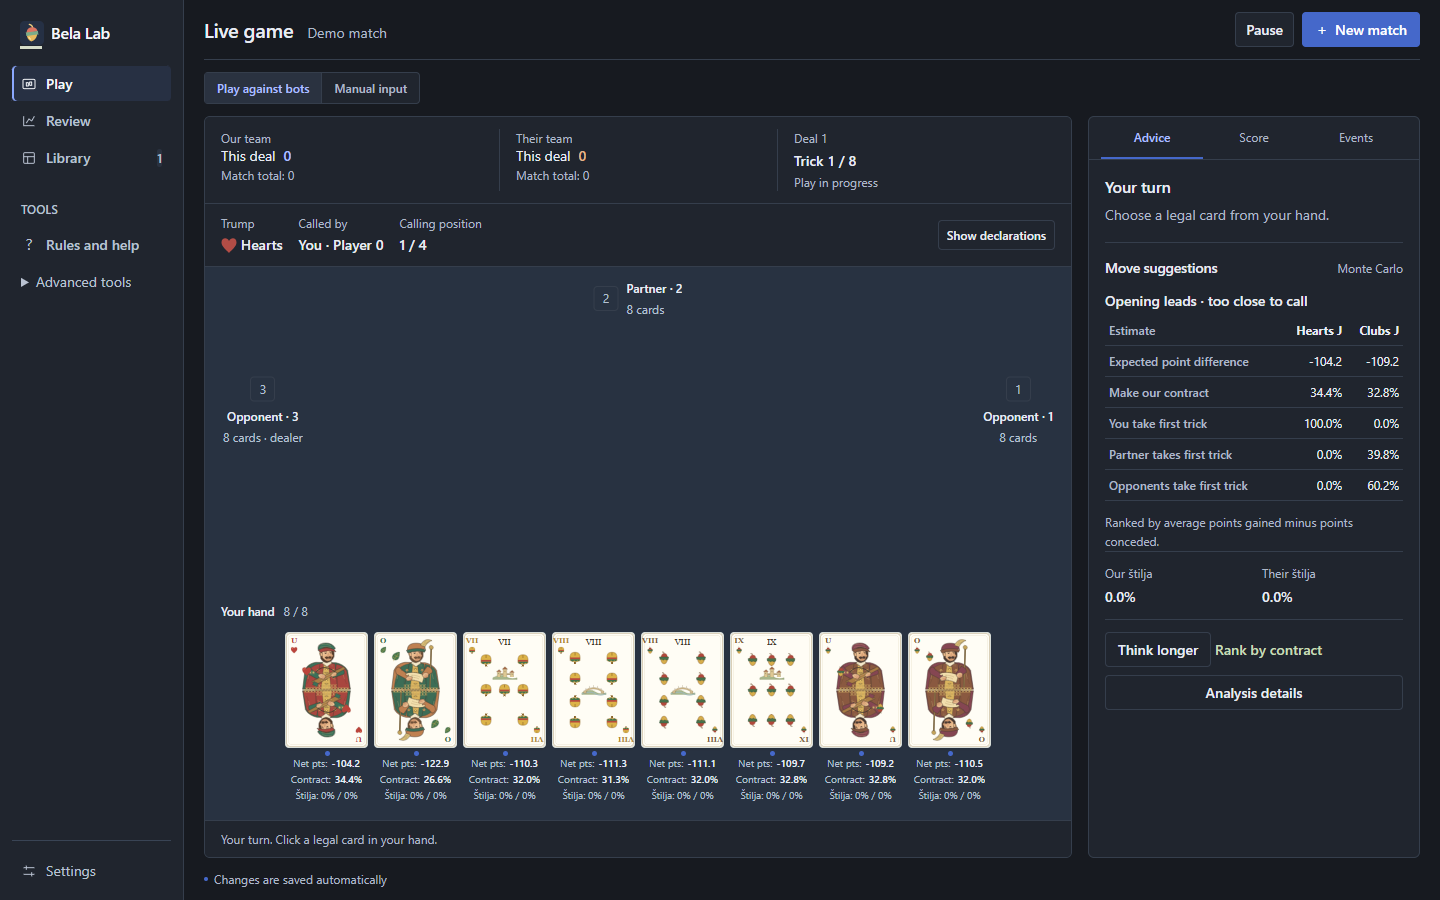
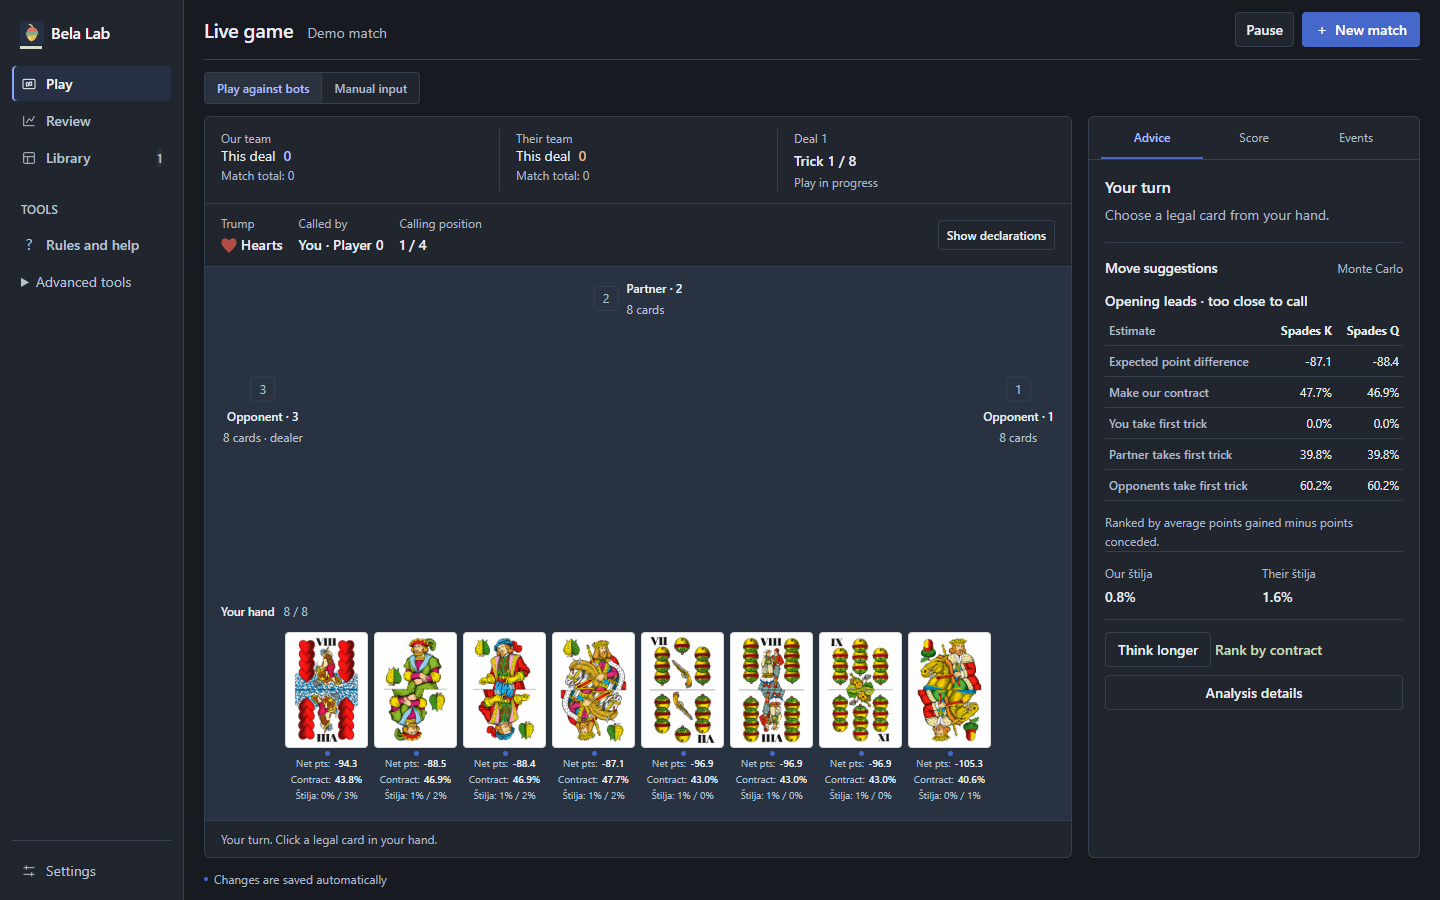
Prepare public Bela Lab release with traditional illustrated cards

Changed region(s): [[0.1875, 0.6844, 0.6875, 0.8711], [0.875, 0.3422, 0.9688, 0.56]]

diff --git a/app/src/bela/interfaces/web/index.html b/app/src/bela/interfaces/web/index.html
@@ -79,7 +79,7 @@
 
     <section id="view-history" class="view" hidden><div class="panel history-panel"><div class="panel-heading"><div><span class="section-kicker">VERIFIABLE HISTORY</span><h2>Every event has its place</h2><p>Corrections revalidate all subsequent moves. Previous versions remain in the archive.</p></div><button id="insert-first" class="button secondary">＋ Insert at start</button></div><div id="history-content"></div></div><section class="panel deal-history"><h2>Deals in this match</h2><div id="deal-history"></div></section></section>
     <section id="view-saved" class="view" hidden><div class="panel library-panel"><div class="panel-heading"><div><span class="section-kicker">PICK UP WHERE YOU LEFT OFF</span><h2>Match library</h2><p>Your matches are saved automatically on this computer.</p></div><button id="import" class="button secondary">Import file ↑</button></div><div id="library-content"></div></div></section>
-    <section id="view-help" class="view" hidden><div class="help-grid"><section class="panel help-copy"><span class="section-kicker">MANUAL TRACKING</span><h2>Record a game.</h2><ol><li><strong>Set up the deal.</strong> Enter your starting hand, trump, dealer, caller and score.</li><li><strong>Record declarations.</strong> Enter spoken details and revealed cards, then confirm who won the meld contest.</li><li><strong>Track every move.</strong> Select the card played at the table. On your turn, you can also select a card from your hand.</li><li><strong>Correct and continue.</strong> History supports replacement, insertion and deletion. Every valid change is saved automatically.</li></ol><button id="open-rules" class="button primary">Read the agreed rules ↗</button></section><section class="panel help-copy"><span class="section-kicker">ABOUT THE ENGINE</span><h2>Analysis settings.</h2><p>Use the current card search and position-aware trump assessment. Other approaches are under Experimental settings.</p><button id="open-project-status" class="button secondary" type="button">Project status (English)</button><details class="card-art-credit"><summary>Card artwork</summary><p>Hungarian card faces use the traditional hearts, leaves, bells and acorns suits.</p></details><h3>Information used for advice.</h3><p>Other players' unrevealed hands remain unknown. The engine checks whether a legal deal can explain the recorded history.</p><p>Complex validation may reach its computation limit. The change then remains unconfirmed and the previous state is preserved.</p><p>Move and trump advice estimate deal outcomes under explicit policies.</p><div class="help-team"><strong>Team 0</strong> players 0 + 2 <span>·</span> <strong>Team 1</strong> players 1 + 3</div></section><section class="panel help-copy"><h2>About Bela Lab</h2><p id="version-label"></p><p>The release documents are available in English.</p><p><button class="button secondary" type="button" data-legal="terms">Terms of Use</button> <button class="button secondary" type="button" data-legal="privacy">Privacy Policy</button> <button class="button secondary" type="button" data-legal="notices">Third-party notices</button></p><p><a href="https://github.com/AleksejLeonG/Belote_engine/issues" target="_blank" rel="noopener noreferrer">Project support on GitHub</a></p></section></div></section>
+    <section id="view-help" class="view" hidden><div class="help-grid"><section class="panel help-copy"><span class="section-kicker">MANUAL TRACKING</span><h2>Record a game.</h2><ol><li><strong>Set up the deal.</strong> Enter your starting hand, trump, dealer, caller and score.</li><li><strong>Record declarations.</strong> Enter spoken details and revealed cards, then confirm who won the meld contest.</li><li><strong>Track every move.</strong> Select the card played at the table. On your turn, you can also select a card from your hand.</li><li><strong>Correct and continue.</strong> History supports replacement, insertion and deletion. Every valid change is saved automatically.</li></ol><button id="open-rules" class="button primary">Read the agreed rules ↗</button></section><section class="panel help-copy"><span class="section-kicker">ABOUT THE ENGINE</span><h2>Analysis settings.</h2><p>Use the current card search and position-aware trump assessment. Other approaches are under Experimental settings.</p><button id="open-project-status" class="button secondary" type="button">Project status (English)</button><details class="card-art-credit"><summary>Card artwork</summary><p>Hungarian card faces use the traditional hearts, leaves, bells and acorns suits.</p></details><h3>Information used for advice.</h3><p>Other players' unrevealed hands remain unknown. The engine checks whether a legal deal can explain the recorded history.</p><p>Complex validation may reach its computation limit. The change then remains unconfirmed and the previous state is preserved.</p><p>Move and trump advice estimate deal outcomes under explicit policies.</p><div class="help-team"><strong>Team 0</strong> players 0 + 2 <span>·</span> <strong>Team 1</strong> players 1 + 3</div></section><section class="panel help-copy"><h2>About Bela Lab</h2><p id="version-label"></p><p>The release documents are available in English.</p><p><button class="button secondary" type="button" data-legal="terms">Terms of Use</button> <button class="button secondary" type="button" data-legal="privacy">Privacy Policy</button> <button class="button secondary" type="button" data-legal="notices">Third-party notices</button></p><p><a href="https://github.com/AleksejLeonG/Bela-Lab/issues" target="_blank" rel="noopener noreferrer">Project support on GitHub</a></p></section></div></section>
     <section id="view-trump" class="view" hidden aria-label="Trump advice">
       <section id="predeal-panel" class="panel advice-controls" hidden>
         <span class="section-kicker">STEP 2 OF 3 · TRUMP DECISION</span><h2 id="predeal-name"></h2>

diff --git a/app/src/bela/interfaces/web/app.js b/app/src/bela/interfaces/web/app.js
@@ -68,7 +68,10 @@ async function sendCommand(command, message) { return mutate("/api/command", {co
 function action(fn) { return async event => { try { await fn(event); } catch (error) { showError(error.message); } }; }
 
 function cardMarkup(code, {selected=false, legal=false, disabled=false, table=false} = {}) {
-  return l`<button class="playing-card ${red(code)?"red":""} ${selected?"selected":""} ${legal?"legal":""} ${table?"on-table":""}" data-card="${code}" aria-label="${suitNames()[code[0]]} ${deckRank(code.split("_")[1])}" ${disabled?"disabled":""}><img class="hungarian-face" src="/cards/hungarian/${code}.svg" alt="" aria-hidden="true" draggable="false"><span class="card-rank">${code.split("_")[1]}</span><span class="card-center">${SYMBOLS[code[0]]}</span><span class="card-bottom">${SYMBOLS[code[0]]}</span></button>`;
+  const face = state.illustrated_deck
+    ? `/cards/hungarian-illustrated/${code}.webp`
+    : `/cards/hungarian/${code}.svg`;
+  return l`<button class="playing-card ${red(code)?"red":""} ${selected?"selected":""} ${legal?"legal":""} ${table?"on-table":""}" data-card="${code}" aria-label="${suitNames()[code[0]]} ${deckRank(code.split("_")[1])}" ${disabled?"disabled":""}><img class="hungarian-face" src="${face}" alt="" aria-hidden="true" draggable="false"><span class="card-rank">${code.split("_")[1]}</span><span class="card-center">${SYMBOLS[code[0]]}</span><span class="card-bottom">${SYMBOLS[code[0]]}</span></button>`;
 }
 function picker(target, selected, onPick, disabled = () => false) {
   target.innerHTML = SUITS.map(suit => l`<div class="suit-row"><span class="suit-label ${red(suit)?"red":""}" aria-label="${suitNames()[suit]}">${suitMarkup(suit)}</span>${RANKS.map(rank => {
@@ -402,7 +405,7 @@ $("open-project-status").addEventListener("click",action(async()=>{
   $("status-content").textContent=result.text;$("status-dialog").showModal();
 }));
 function setLegalCopy(target, text){
-  const docsBase="https://github.com/AleksejLeonG/Belote_engine/blob/main/";
+  const docsBase="https://github.com/AleksejLeonG/Bela-Lab/blob/main/";
   const fragment=document.createDocumentFragment();
   let list=null;
   for(const line of text.split(/\r?\n/)){

diff --git a/app/src/bela/interfaces/dashboard.py b/app/src/bela/interfaces/dashboard.py
@@ -36,6 +36,8 @@ LEGAL_DOCUMENTS = {"terms": "TERMS.md", "privacy": "PRIVACY.md", "notices": "NOT
 MAX_REQUEST_BYTES = 16 * 1024 * 1024
 CARD_ASSETS = {f"/cards/{suit}.svg" for suit in ("hearts", "leaves", "bells", "acorns")} | {
     f"/cards/hungarian/{suit}_{rank}.svg" for suit in "HSDC"
+    for rank in ("7", "8", "9", "10", "J", "Q", "K", "A")} | {
+    f"/cards/hungarian-illustrated/{suit}_{rank}.webp" for suit in "HSDC"
     for rank in ("7", "8", "9", "10", "J", "Q", "K", "A")}
 
 
@@ -229,7 +231,7 @@ class Dashboard:
     def snapshot(self):
         with self.lock:
             return {"match": match_view(self.match), "saved": self.saved(), "mode":self.mode,
-                "version": __version__, "illustrated_deck": False,
+                "version": __version__, "illustrated_deck": (WEB_ROOT / "cards/hungarian-illustrated").is_dir(),
                 "bot":self.bot_game.public_view() if self.mode == "bots" and self.bot_game else None}
 
     def mutate(self, route, payload):

diff --git a/app/tools/package_windows_release.py b/app/tools/package_windows_release.py
@@ -42,8 +42,9 @@ def bundled_files():
 
     internal = BUNDLE / "_internal"
     deck = internal / "bela/interfaces/web/cards"
-    if len(list((deck / "hungarian").glob("*.svg"))) != 32:
-        raise ValueError("The release bundle must contain only the project SVG card faces.")
+    for folder, extension in (("hungarian", "svg"), ("hungarian-illustrated", "webp")):
+        if len(list((deck / folder).glob(f"*.{extension}"))) != 32:
+            raise ValueError(f"The release bundle must contain 32 {extension.upper()} card faces.")
     private_names = {"saves", "webview2.nupkg", "early_chat_handover.md", "early_chat_source_summary.md"}
     yield executable, executable.name
     for path in sorted(internal.rglob("*")):

diff --git a/app/tests/test_dashboard.py b/app/tests/test_dashboard.py
@@ -151,6 +151,10 @@ class HttpDashboardTests(unittest.TestCase):
                 self.assertEqual(status, 200)
                 self.assertEqual(headers["Content-Type"], "image/svg+xml")
                 self.assertIn(b"<svg", body)
+                status, headers, body = self.request("GET", f"/cards/hungarian-illustrated/{suit}_{rank}.webp")
+                self.assertEqual(status, 200)
+                self.assertEqual(headers["Content-Type"], "image/webp")
+                self.assertEqual(body[8:12], b"WEBP")
         self.assertEqual(self.request("GET", "/cards/hungarian/H_2.svg")[0], 404)
 
     def test_knowledge_is_revisioned_read_only_and_contains_no_witness(self):

diff --git a/README.md b/README.md
@@ -5,22 +5,22 @@ four-player Croatian Bela. Games and analysis run on your computer.
 
 ## Run the Windows app
 
-**[Download Bela Lab 1.0.0 Setup for Windows](https://github.com/AleksejLeonG/Belote_engine/releases/download/v1.0.0/Bela-Lab-1.0.0-Windows-x64-Setup.exe)** · [Release notes and checksums](https://github.com/AleksejLeonG/Belote_engine/releases/tag/v1.0.0)
+**[Download Bela Lab 1.0.0 Setup for Windows](https://github.com/AleksejLeonG/Bela-Lab/releases/download/v1.0.0/Bela-Lab-1.0.0-Windows-x64-Setup.exe)** · [Release notes and checksums](https://github.com/AleksejLeonG/Bela-Lab/releases/tag/v1.0.0)
 
 ![Bela Lab in dark mode with a Hungarian deck and side-by-side opening lead estimates](docs/images/bela-lab-play.png)
 
 *Opening advice during a demo match. The app compares expected deal points,
 contract odds, and who might take the first trick.*
 
-Sign in to GitHub with access to this repository, download Setup from the
-release, and follow the wizard. Then open **Bela Lab** from the Start menu.
+Download Setup from the release and follow the wizard. Then open
+**Bela Lab** from the Start menu.
 Setup installs for your Windows account and creates an entry in **Settings →
 Apps → Installed apps**. Uninstalling there keeps your saved games, analysis,
 notes, and preferences.
 
 The app requires Windows capable of running x64 programs and
 [Microsoft Edge WebView2 Evergreen Runtime](https://developer.microsoft.com/microsoft-edge/webview2/).
-Setup is unsigned. The [release page](https://github.com/AleksejLeonG/Belote_engine/releases/tag/v1.0.0)
+Setup is unsigned. The [release page](https://github.com/AleksejLeonG/Bela-Lab/releases/tag/v1.0.0)
 also offers a portable ZIP if you prefer to run the app from an extracted folder.
 
 - **Play against bots** to practice a full match, from trump calling to scoring.
@@ -60,7 +60,7 @@ contains and how to remove it.
 - [Terms of Use](TERMS.md) and [Privacy Policy](PRIVACY.md)
 - [Project rights](LICENSE.md) and [third-party notices](NOTICE.md)
 - [Release notes](CHANGELOG.md)
-- [Report a problem](https://github.com/AleksejLeonG/Belote_engine/issues) or [report a security issue](SECURITY.md)
+- [Report a problem](https://github.com/AleksejLeonG/Bela-Lab/issues) or [report a security issue](SECURITY.md)
 
 ## Build and develop
 

diff --git a/docs/DESKTOP_APP.md b/docs/DESKTOP_APP.md
@@ -4,7 +4,7 @@ The desktop application uses the existing Python engine with pywebview and Windo
 
 ## Open the app
 
-Download **[Bela Lab 1.0.0 Setup](https://github.com/AleksejLeonG/Belote_engine/releases/download/v1.0.0/Bela-Lab-1.0.0-Windows-x64-Setup.exe)** and run it. Sign in to GitHub with access to this repository to download the installer. The per-user wizard creates a Start menu shortcut and a Windows uninstall entry.
+Download **[Bela Lab 1.0.0 Setup](https://github.com/AleksejLeonG/Bela-Lab/releases/download/v1.0.0/Bela-Lab-1.0.0-Windows-x64-Setup.exe)** and run it. The per-user wizard creates a Start menu shortcut and a Windows uninstall entry.
 
 Use the **Bela Lab** desktop or Start menu shortcut, or `START_BELA.cmd` in the project root. The installed application contains Python and its required libraries. Windows WebView2 must be available (it is present on the development computer).
 
@@ -30,7 +30,7 @@ app/.venv/Scripts/python.exe -m PyInstaller --noconfirm app/BelaLab.spec
 powershell -ExecutionPolicy Bypass -File app/tools/install_desktop.ps1
 ```
 
-The icon is tracked in `app/assets/bela-lab.ico`. The spec bundles the frontend, the project-authored Hungarian SVG deck, the in-app legal documents, the rules and a demo. The build goes to ignored `dist/Bela Lab/`. Close an installed Bela Lab before updating. No administrator account is needed.
+The icon is tracked in `app/assets/bela-lab.ico`. The spec bundles the frontend, the illustrated Hungarian deck and vector card assets, the in-app legal documents, the rules and a demo. The build goes to ignored `dist/Bela Lab/`. Close an installed Bela Lab before updating. No administrator account is needed.
 
 ## Package version 1.0.0
 

diff --git a/SECURITY.md b/SECURITY.md
@@ -2,6 +2,6 @@
 
 Use the latest published Bela Lab version when reporting a security issue. Bela Lab 1.0.0 is the current release version.
 
-Use [GitHub Security Advisories](https://github.com/AleksejLeonG/Belote_engine/security/advisories) if the **Report a vulnerability** button is available. Otherwise, open a [GitHub issue](https://github.com/AleksejLeonG/Belote_engine/issues) asking for a private contact channel without including sensitive details.
+Use [GitHub Security Advisories](https://github.com/AleksejLeonG/Bela-Lab/security/advisories) if the **Report a vulnerability** button is available. Otherwise, open a [GitHub issue](https://github.com/AleksejLeonG/Bela-Lab/issues) asking for a private contact channel without including sensitive details.
 
 Include your app version, Windows version, a short description, and the minimum information necessary for the maintainer to understand the issue. Remove personal information, saved matches and confidential details from public posts.

diff --git a/NOTICE.md b/NOTICE.md
@@ -4,4 +4,4 @@ The Windows distribution includes CPython, pywebview, bottle, cffi, clr-loader, 
 
 Bela Lab is bundled with PyInstaller under its bootloader redistribution exception. [PyInstaller licence and exception](https://pyinstaller.org/en/stable/license.html)
 
-The release includes Bela Lab's project-authored Hungarian SVG deck and a standard rank-and-suit display. See the repository's [artwork notes](https://github.com/AleksejLeonG/Belote_engine/tree/main/app/src/bela/interfaces/web/cards) for the source deck and provenance. Microsoft, Windows, and WebView2 are Microsoft marks. Bela Lab is an independent project.
+The release includes Bela Lab's illustrated Hungarian deck and a standard rank-and-suit display. See the repository's [artwork notes](https://github.com/AleksejLeonG/Bela-Lab/tree/main/app/src/bela/interfaces/web/cards) for the source deck and provenance. Microsoft, Windows, and WebView2 are Microsoft marks. Bela Lab is an independent project.

diff --git a/app/src/bela/interfaces/web/cards/ATTRIBUTION.md b/app/src/bela/interfaces/web/cards/ATTRIBUTION.md
@@ -2,14 +2,14 @@
 
 ## Traditional Hungarian deck
 
-Bela Lab uses 32 project-authored SVG faces in `hungarian/`. The artwork
+The default deck uses 32 digitally illustrated WebP faces in `hungarian-illustrated/`. The artwork
 uses the traditional Hungarian (Tell) deck, with hearts, leaves, bells and acorns,
 mirrored court figures, and seasonal aces. In the engine, H = hearts, S = leaves,
 D = bells and C = acorns. Unter maps to J and Ober to Q. The aces depict spring
 (hearts), summer (bells), autumn (leaves), and winter (acorns).
 
-Each card is a self-contained SVG. The four standalone suit symbols were also
-drawn for the project. Regenerate the faces from the repository root:
+The project also includes 32 standalone SVG faces in `hungarian/` and four
+standalone suit symbols. Regenerate the vector faces from the repository root:
 
     python app/tools/generate_hungarian_cards.py
 

diff --git a/PRIVACY.md b/PRIVACY.md
@@ -25,6 +25,6 @@ Use **Library → Export** to save a copy of the active match. Before backing up
 
 ## Contact
 
-For a privacy question or request about information shared with the maintainer, use [GitHub Issues](https://github.com/AleksejLeonG/Belote_engine/issues) to request a private contact channel. Include only the minimum information needed on the public issue.
+For a privacy question or request about information shared with the maintainer, use [GitHub Issues](https://github.com/AleksejLeonG/Bela-Lab/issues) to request a private contact channel. Include only the minimum information needed on the public issue.
 
 Depending on the law that applies, you may have the right to access, correct or delete information you shared with the maintainer and to complain to your data protection authority.

diff --git a/docs/DASHBOARD.md b/docs/DASHBOARD.md
@@ -345,9 +345,8 @@ unchanged H, S, D and C card identities; ober maps to Q and unter to J. The same
 preference applies to live and analysis tables, hands, suit labels and trump
 selection. Switching appearance preserves pending entries and unsaved notes.
 
-The default Hungarian deck uses 32 project-authored SVGs based on the
-traditional Tell deck, with Roman-numeral pips, mirrored court figures and
-seasonal aces.
+The default Hungarian deck uses 32 colorful illustrations in the traditional
+Tell pattern, with Roman-numeral pips, mirrored court figures and seasonal aces.
 See
 [the artwork reference](../app/src/bela/interfaces/web/cards/ATTRIBUTION.md).
 
